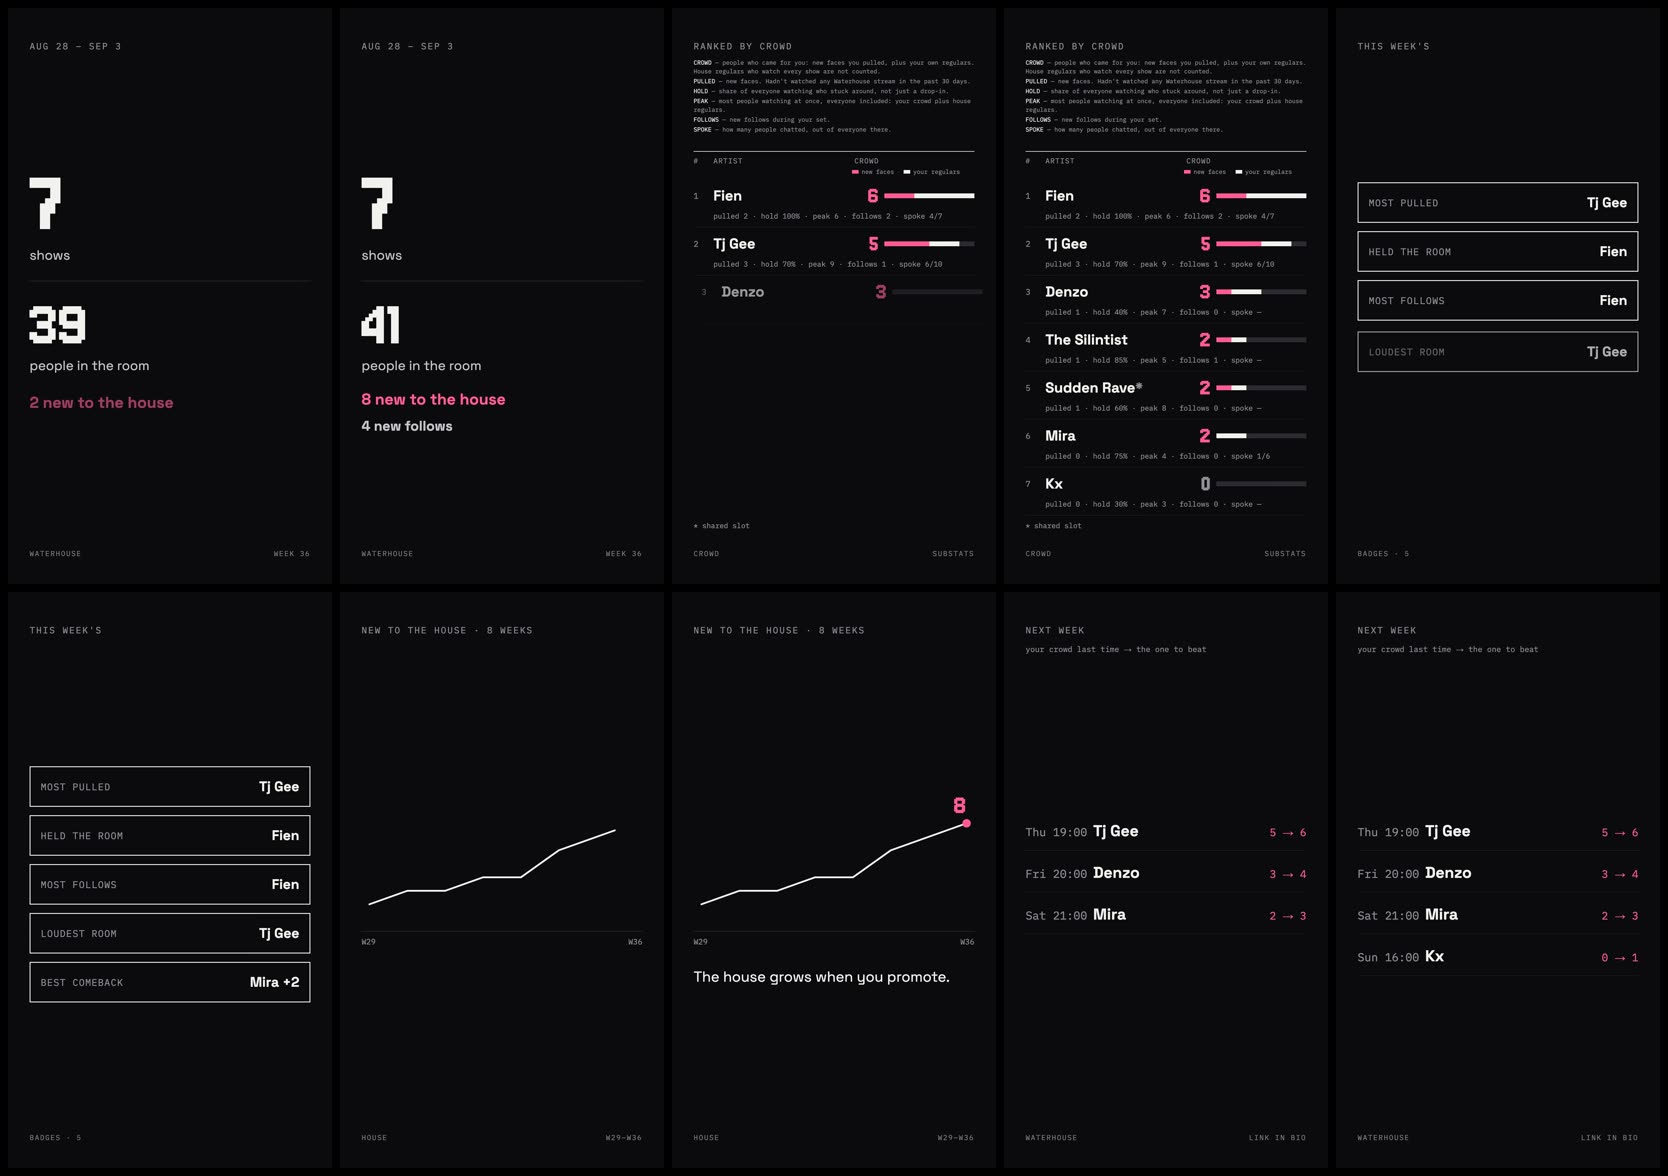
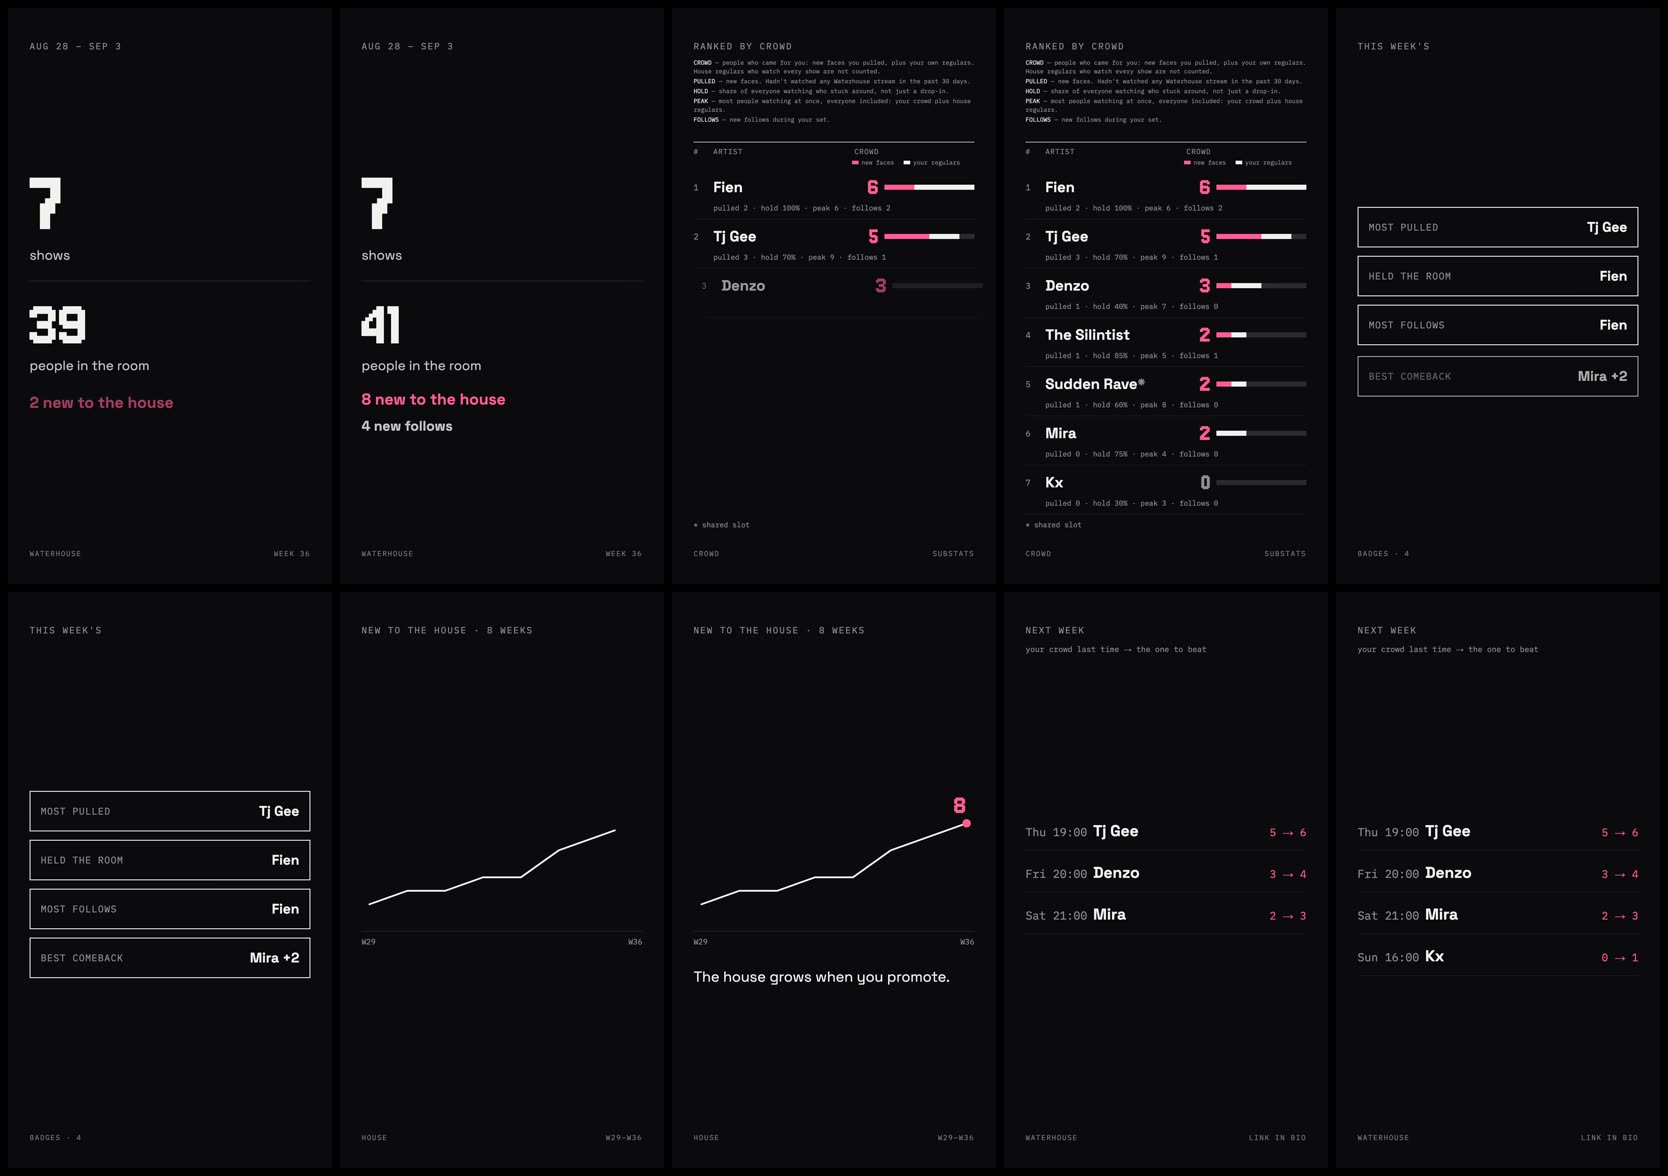
remotion-7: take chat off screen until there is chat data
Operator's call: nothing on screen reads chat for now. The SPOKE line is
out of the glossary, "· spoke …" is off every substat line, and Loudest
room is out of the badges, which are back to four - Most pulled, Held the
room, Most follows, Best comeback - with the footer to match.

The `chat` field stays on BoardRow exactly as remotion-5 is defining it,
and both fixtures keep their chat values. This is a display change only,
so putting the badge and the substat back is a diff of a few lines
whenever capture ships.

The glossary line that went costs one line of height, which the rows took
back.

Claude-Session: https://claude.ai/code/session_01Q9DzKvQZzPp18EAo1CvNDq

diff --git a/src/HouseWeekly.tsx b/src/HouseWeekly.tsx
@@ -99,13 +99,10 @@ const fadeUp = (frame: number, delay: number, distance = 28) => {
 
 const pct = (holdRate: number) => `${Math.round(holdRate * 100)}%`;
 
-// Spoke is the one substat that can be missing: chat capture only exists from
-// the day it shipped, and Twitch keeps no history before it.
-const spoke = (row: BoardRow) =>
-  row.chat ? `${row.chat.chatters}/${row.uniques}` : "—";
-
+// `chat` stays on BoardRow - the data script still emits it - but nothing on
+// screen reads it until there is chat data worth showing.
 const substatLine = (row: BoardRow) =>
-  `pulled ${row.pulled} · hold ${pct(row.holdRate)} · peak ${row.peak} · follows ${row.follows} · spoke ${spoke(row)}`;
+  `pulled ${row.pulled} · hold ${pct(row.holdRate)} · peak ${row.peak} · follows ${row.follows}`;
 
 // --- Frame chrome: eyebrow at the top, watermark at the foot ---
 const Frame: React.FC<{
@@ -302,7 +299,6 @@ const GLOSSARY: { term: string; rest: string }[] = [
     rest: " — most people watching at once, everyone included: your crowd plus house regulars.",
   },
   { term: "FOLLOWS", rest: " — new follows during your set." },
-  { term: "SPOKE", rest: " — how many people chatted, out of everyone there." },
 ];
 
 const BoardRowLine: React.FC<{
@@ -432,7 +428,7 @@ const TheBoard: React.FC<Pick<HouseWeeklyProps, "rows">> = ({ rows }) => {
 
   // Two-line rows, so the height per row is roughly double what a flat board
   // needed. Seven of them still clear the footnote.
-  const rowHeight = Math.min(180, Math.floor(1120 / Math.max(1, shown.length)));
+  const rowHeight = Math.min(180, Math.floor(1150 / Math.max(1, shown.length)));
 
   const glossaryIn = interpolate(frame, [0, 12], [0, 1], {
     extrapolateLeft: "clamp",
@@ -575,13 +571,13 @@ const TheBoard: React.FC<Pick<HouseWeeklyProps, "rows">> = ({ rows }) => {
 
 // --- Beat 3 (330-480): badges ---
 //
-// One badge per substat, so every behaviour the house wants to see has a
-// weekly winner and most artists take something home.
+// One badge per substat on the board, so every behaviour the house wants to
+// see has a weekly winner and most artists take something home. Loudest room
+// waits for chat data.
 const BADGE_LABELS: { key: Badge; label: string }[] = [
   { key: "most-pulled", label: "Most pulled" },
   { key: "held-the-room", label: "Held the room" },
   { key: "most-follows", label: "Most follows" },
-  { key: "loudest-room", label: "Loudest room" },
   { key: "best-comeback", label: "Best comeback" },
 ];
 
